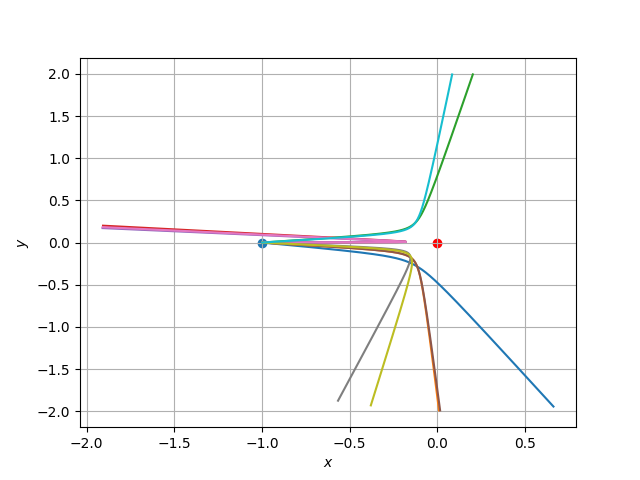
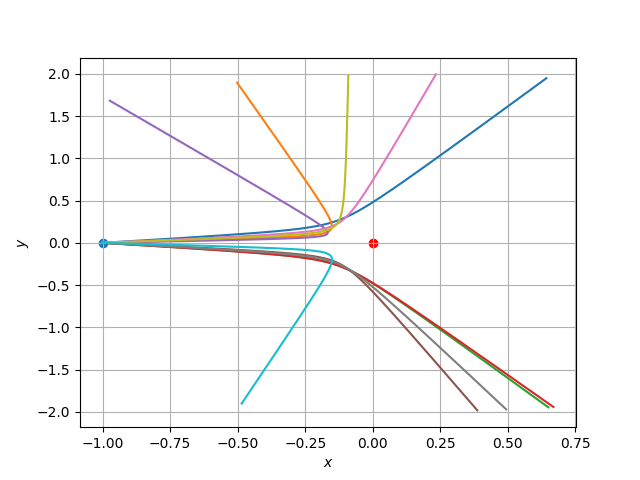
solver

diff --git a/training/solver.py b/training/solver.py
@@ -26,32 +26,36 @@ def solver(
         y.append(y[i] + vy[i]*dt)
 
 
-    return x,y
+    return x,y,vx,vy
 
-def fx(x,y):
-    return x/(x**2 + y**2)**(3/2)
+def main():
+    def fx(x,y):
+        return x/(x**2 + y**2)**(3/2)
 
-def fy(x,y):
-    return y/(x**2 + y**2)**(3/2)
-
-
-system = []
-n = 10
-
-for i in range(n):
-    phi = np.random.uniform(-np.pi/15, np.pi/15)
-    v_amp = 3
-    system.append(
-        solver(-1, 0, v_amp*np.cos(phi), v_amp*np.sin(phi), 0.001, 0, 1, fx, fy)
-    )
+    def fy(x,y):
+        return y/(x**2 + y**2)**(3/2)
 
 
-figure = plt.figure()
-plt.grid()
-plt.xlabel(r'$x$')
-plt.ylabel(r'$y$')
-for i in range(n):
-    plt.plot(system[i][0], system[i][1])
-plt.scatter(0,0,c='red')
-plt.scatter(-1,0)
-plt.savefig('./training/particles moving in potential.png')
+    system = []
+    n = 10
+
+    for i in range(n):
+        phi = np.random.uniform(-np.pi/15, np.pi/15)
+        v_amp = 3
+        system.append(
+            solver(-1, 0, v_amp*np.cos(phi), v_amp*np.sin(phi), 0.001, 0, 1, fx, fy)
+        )
+
+
+    figure = plt.figure()
+    plt.grid()
+    plt.xlabel(r'$x$')
+    plt.ylabel(r'$y$')
+    for i in range(n):
+        plt.plot(system[i][0], system[i][1])
+    plt.scatter(0,0,c='red')
+    plt.scatter(-1,0)
+    plt.savefig('./training/particles moving in potential.png')
+
+if __name__ == "__main__": #чтобы часть кода, обернутая в ф-ю main, выполнялась только когда мы исполняем solver.py напрямую, а не косвенно через другую программу
+    main()

diff --git a/training/oscillator.py b/training/oscillator.py
@@ -1,0 +1,45 @@
+import numpy as np
+import matplotlib.pyplot as plt
+from solver import solver #можем использовать функции из solver-а
+
+def fx(x,y):
+    return -x
+
+def fy(x,y):
+    return 0
+
+x, _, px, _ = solver(0,0,1,0,0.001,0,1000,fx,fy)
+
+plt.figure()
+plt.grid()
+plt.plot(x, px, alpha=0.3)  #alpha=прозрачность
+plt.xlabel(r'$x$')
+plt.ylabel(r'$p_{x}$')
+plt.show()
+
+#стенки эллипса=фазового объема едут при большом кол-ве шагов, т.е. фазовый объем не сохраняется (схема Эйлера)
+
+#Теперь схема Верле:
+
+def solver_Verlet(
+    x0: float,
+    y0: float,
+    vx0: float,
+    vy0: float,
+    dt: float,
+    t_start: float,
+    t_end: float,
+    fx,
+    fy,
+    m: float = 1,
+) -> list:
+    N = int((t_end - t_start)//dt) #два слеша при делении отбрасывают дробную часть числа, т.к. далее применяем range()
+    x = [x0]
+    y = [y0]
+    vx = [vx0]
+    vy = [vy0]
+    for i in range(N):
+        vx.append(vx[i] + dt*fx(x[i], y[i])/m)
+        vy.append(vy[i] + dt*fy(x[i], y[i])/m)
+        x.append(x[i] + vx[i]*dt)
+        y.append(y[i] + vy[i]*dt)
